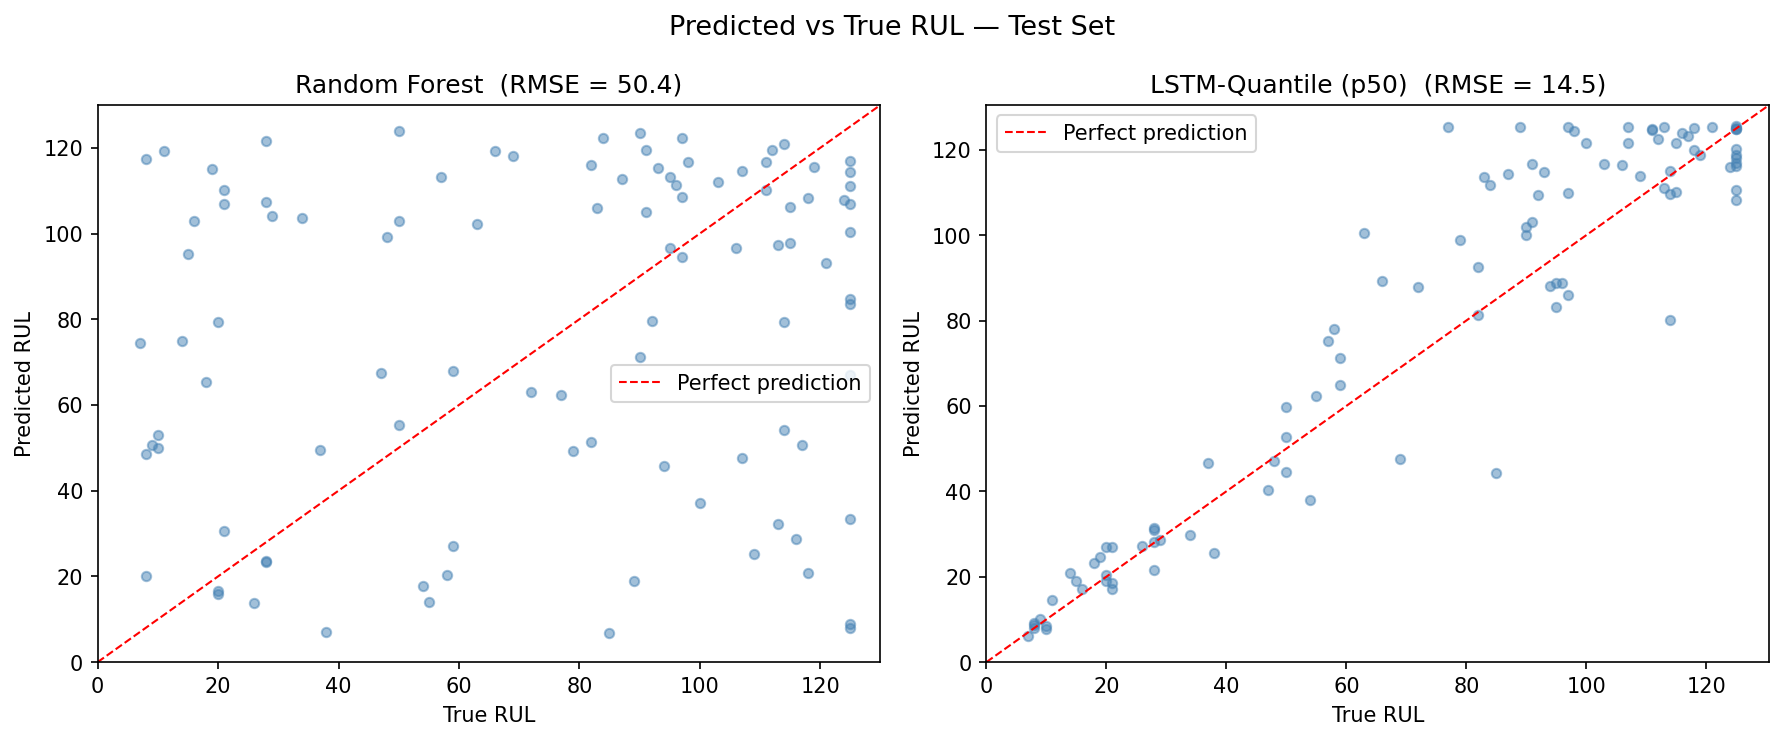
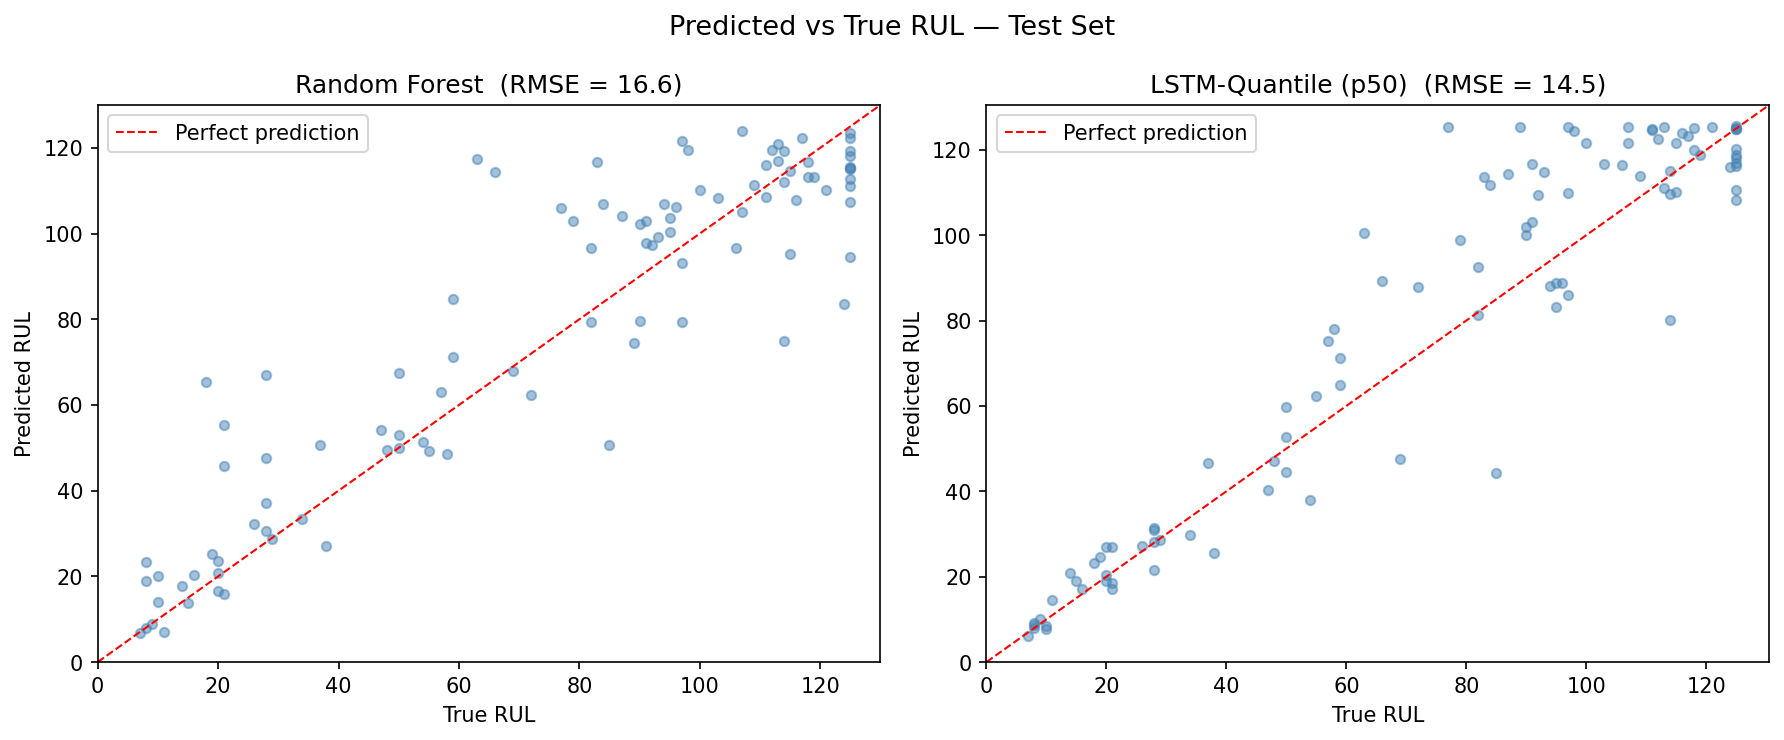
fix

diff --git a/data/README.md b/data/README.md
@@ -6,7 +6,6 @@ Conditions: ONE (Sea Level)
 Fault Modes: ONE (HPC Degradation)
 
 
-
 The dataset is not committed to this repo. Download it from the NASA Prognostics Data Repository using the following link:
 
 Download: https://phm-datasets.s3.amazonaws.com/NASA/6.+Turbofan+Engine+Degradation+Simulation+Data+Set.zip